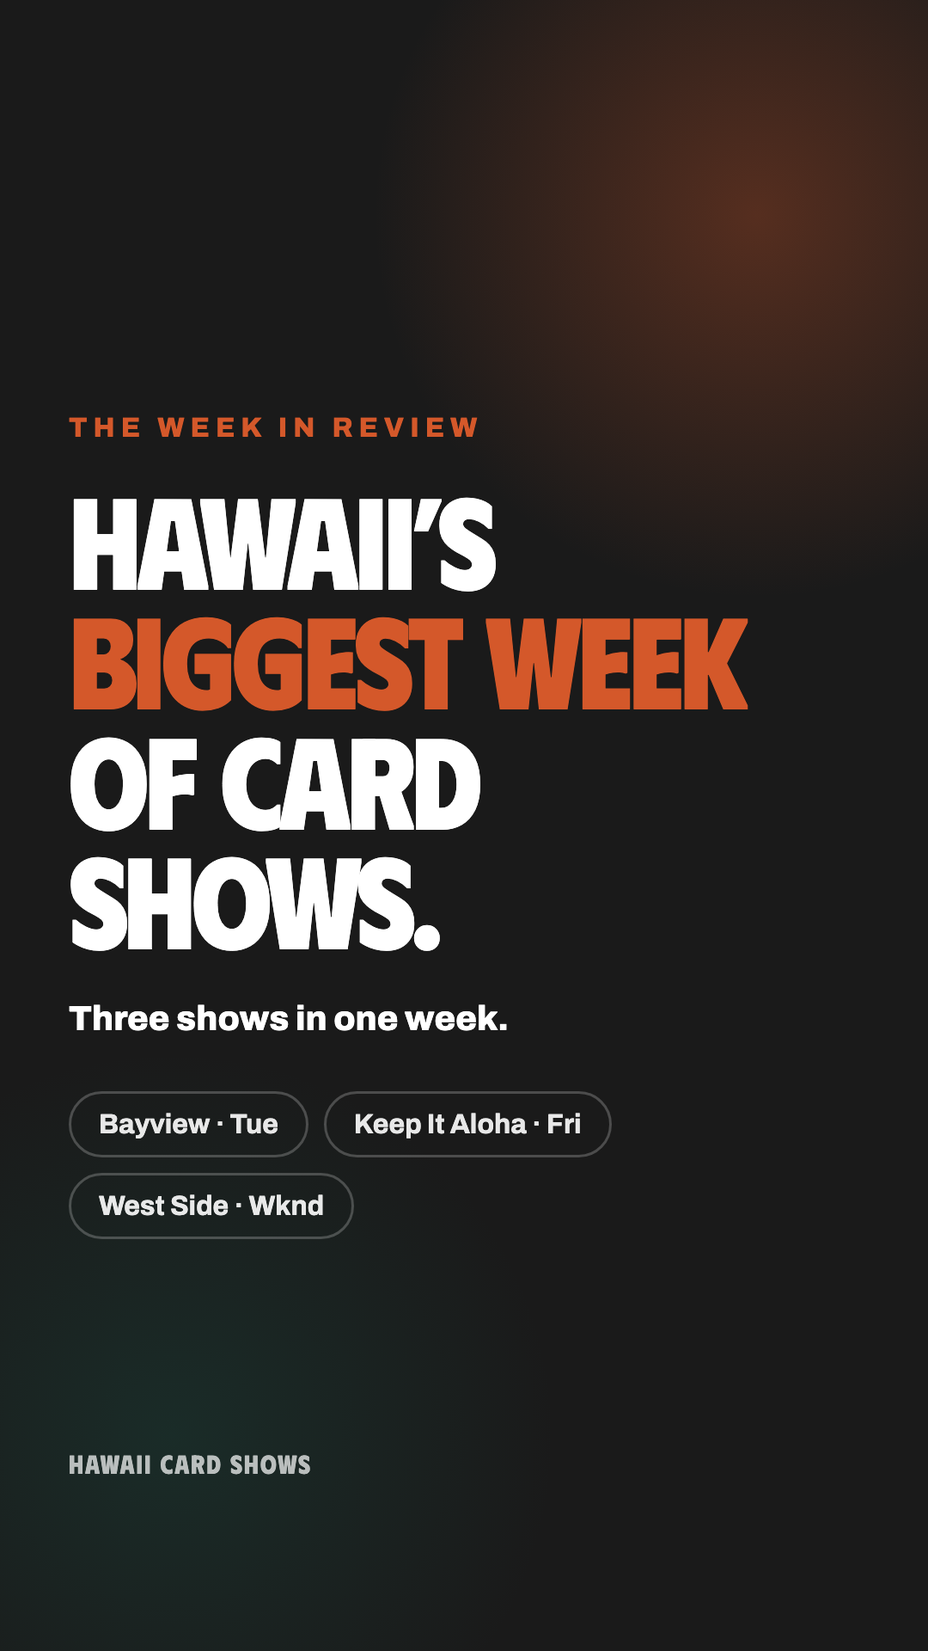
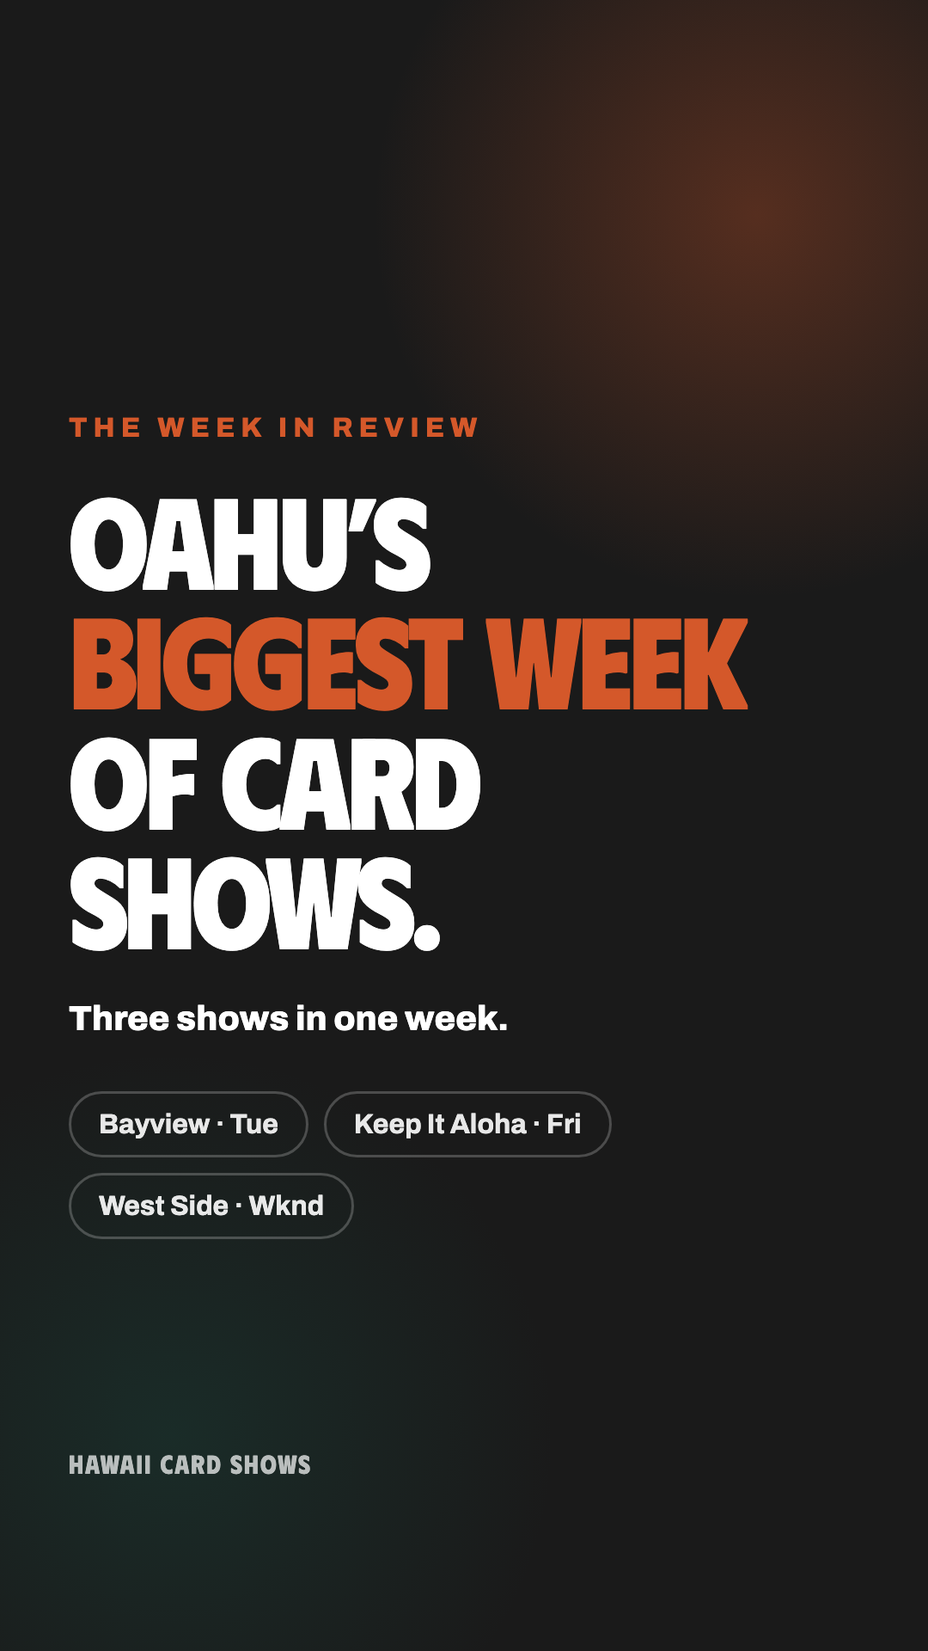
Publish KIA #2 recap + refresh "Oahu's Biggest Week" social + KIA newsletter
- PUBLISH KIA #2 recap: removed DRAFT comment + on-page review banner, flipped
  robots noindex→index,follow, registered in recap-map.js (newest) + sitemap.xml.
  Now public: homepage "Latest From Hawaii", recaps index, KIA show page, indexable.
- Added Tyler's voice ("a night out with friends… bring your casual friends to
  tumble down the rabbit hole") to the recap's Friday-format section + the newsletter note.
- KIA recap newsletter drafted: emails/blasts/blast-recap-keep-it-aloha-june-2026.html
  (1,500+ headline, hero, stats, sponsor love, big-week tease). Send Tue–Wed.
- Refreshed big-week carousel + stories: cover → "Oahu just had its biggest week",
  KIA slide now shows 70+ vendors / 1,500+ collectors. Caption updated (Oahu, numbers,
  West Side Card Show rename, live recap link). Re-rendered.

Changed region(s): [[0.0611, 0.2812, 0.55, 0.375]]

diff --git a/emails/blasts/blast-recap-keep-it-aloha-june-2026.html b/emails/blasts/blast-recap-keep-it-aloha-june-2026.html
@@ -1,0 +1,224 @@
+<!DOCTYPE html>
+<html lang="en" xmlns="http://www.w3.org/1999/xhtml" xmlns:v="urn:schemas-microsoft-com:vml" xmlns:o="urn:schemas-microsoft-com:office:office">
+<head>
+<meta charset="utf-8">
+<meta name="viewport" content="width=device-width, initial-scale=1.0">
+<meta http-equiv="X-UA-Compatible" content="IE=edge">
+<meta name="x-apple-disable-message-reformatting">
+<title>1,500+ collectors on a Friday night</title>
+<!--
+═══════════════════════════════════════════════════════════════════════
+  ⚠  DRAFT — KIA #2 RECAP NEWSLETTER
+  Campaign: recap-blast-keep-it-aloha-june-2026
+  Send Tue–Wed (NOT Monday — weekly digest auto-sends Mon 9 AM HST).
+  TO FILL: [[ HCS TEAM NOTE ]] (ask Tyler).
+  GATE: publish the KIA recap page (flip noindex→index + register) before/at send,
+        so the "Read the Full Recap" link points to a public page.
+═══════════════════════════════════════════════════════════════════════
+-->
+<!--[if mso]>
+<noscript><xml><o:OfficeDocumentSettings><o:AllowPNG/><o:PixelsPerInch>96</o:PixelsPerInch></o:OfficeDocumentSettings></xml></noscript>
+<![endif]-->
+<style>
+  @import url('https://fonts.googleapis.com/css2?family=Archivo:wght@400;500;600;700;800&family=Phudu:wght@400;500;600;700;800&display=swap');
+  * { margin: 0; padding: 0; }
+  body, table, td, a { -webkit-text-size-adjust: 100%; -ms-text-size-adjust: 100%; }
+  table, td { mso-table-lspace: 0pt; mso-table-rspace: 0pt; }
+  img { -ms-interpolation-mode: bicubic; border: 0; height: auto; line-height: 100%; outline: none; text-decoration: none; }
+  body { height: 100% !important; margin: 0 !important; padding: 0 !important; width: 100% !important; background-color: #f5f0e8; }
+  @media screen and (max-width: 600px) {
+    .mobile-padding { padding-left: 20px !important; padding-right: 20px !important; }
+    .mobile-full { width: 100% !important; }
+  }
+</style>
+</head>
+<body style="margin:0; padding:0; background-color:#f5f0e8; font-family:'Archivo', Arial, Helvetica, sans-serif;">
+
+<!-- Preview text -->
+<div style="display:none; max-height:0; overflow:hidden; mso-hide:all;">
+  70+ vendors, 1,500+ collectors, free for everyone — on a single Friday night at SALT.
+</div>
+
+<table role="presentation" cellpadding="0" cellspacing="0" border="0" width="100%" style="background-color:#f5f0e8;">
+<tr><td align="center" style="padding:24px 16px;">
+
+<table role="presentation" cellpadding="0" cellspacing="0" border="0" width="600" class="mobile-full" style="max-width:600px; width:100%; background-color:#ffffff; border-radius:12px; overflow:hidden; box-shadow:0 2px 12px rgba(0,0,0,0.08);">
+
+<!-- ═══ HEADER ═══ -->
+<tr>
+<td align="center" style="background-color:#1a6b5a; padding:32px 28px 28px 28px;" class="mobile-padding">
+  <a href="https://hawaiicardshows.com?utm_source=newsletter&utm_medium=email&utm_campaign=recap-blast-keep-it-aloha-june-2026&utm_content=header-logo" target="_blank" style="text-decoration:none;">
+    <img src="https://hawaiicardshows.com/branding/logo-horizontal-white.png" width="200" alt="Hawaii Card Shows" style="display:block; width:200px; max-width:200px; height:auto; border:0; margin:0 auto;">
+  </a>
+  <div style="font-family:'Phudu',Arial,Helvetica,sans-serif; font-size:11px; color:rgba(255,255,255,0.75); margin-top:12px; letter-spacing:1.5px; text-transform:uppercase; font-weight:600;">
+    Recap &middot; June 5, 2026
+  </div>
+</td>
+</tr>
+
+<!-- ═══ HERO PHOTO ═══ -->
+<tr>
+<td style="padding:0; line-height:0; font-size:0;">
+  <a href="https://hawaiicardshows.com/recaps/keep-it-aloha-june-2026?utm_source=newsletter&utm_medium=email&utm_campaign=recap-blast-keep-it-aloha-june-2026&utm_content=hero-photo" target="_blank" style="text-decoration:none;">
+    <img src="https://hawaiicardshows.com/recaps/images/keep-it-aloha-june-2026-show-floor.jpg" width="600" alt="Packed floor at Keep It Aloha #2 — collectors and families under the SALT Kaka'ako warehouse roof" style="display:block; width:100%; max-width:600px; height:auto; border:0;">
+  </a>
+</td>
+</tr>
+
+<!-- ═══ HEADLINE ═══ -->
+<tr>
+<td style="padding:36px 28px 16px 28px;" class="mobile-padding">
+  <h1 style="font-family:'Phudu',Arial,Helvetica,sans-serif; font-size:30px; font-weight:800; color:#1a1a1a; margin:0 0 12px 0; line-height:1.2; letter-spacing:-0.5px;">
+    1,500+ collectors. One Friday night.
+  </h1>
+  <p style="font-family:'Archivo',Arial,Helvetica,sans-serif; font-size:15px; color:#6a6a6a; line-height:1.7; margin:0;">
+    June 5, 2026 &middot; SALT in Kaka&rsquo;ako, Honolulu
+  </p>
+</td>
+</tr>
+
+<!-- ═══ STATS — 2x2 grid ═══ -->
+<tr>
+<td style="padding:24px 28px 8px 28px;" class="mobile-padding">
+  <table role="presentation" cellpadding="0" cellspacing="0" border="0" width="100%" style="background:#f5f0e8; border-radius:10px;">
+    <tr>
+      <td width="50%" align="center" valign="middle" style="padding:20px 12px; border-right:1px solid #e8e0d0; border-bottom:1px solid #e8e0d0;">
+        <div style="font-family:'Phudu',Arial,Helvetica,sans-serif; font-weight:800; font-size:30px; color:#1a6b5a; line-height:1;">70+</div>
+        <div style="font-family:'Archivo',Arial,Helvetica,sans-serif; font-size:11px; font-weight:700; color:#6a6a6a; text-transform:uppercase; letter-spacing:0.8px; margin-top:6px;">Vendors</div>
+      </td>
+      <td width="50%" align="center" valign="middle" style="padding:20px 12px; border-bottom:1px solid #e8e0d0;">
+        <div style="font-family:'Phudu',Arial,Helvetica,sans-serif; font-weight:800; font-size:30px; color:#1a6b5a; line-height:1;">1,500+</div>
+        <div style="font-family:'Archivo',Arial,Helvetica,sans-serif; font-size:11px; font-weight:700; color:#6a6a6a; text-transform:uppercase; letter-spacing:0.8px; margin-top:6px;">Attendees</div>
+      </td>
+    </tr>
+    <tr>
+      <td width="50%" align="center" valign="middle" style="padding:20px 12px; border-right:1px solid #e8e0d0;">
+        <div style="font-family:'Phudu',Arial,Helvetica,sans-serif; font-weight:800; font-size:30px; color:#1a6b5a; line-height:1;">Fri</div>
+        <div style="font-family:'Archivo',Arial,Helvetica,sans-serif; font-size:11px; font-weight:700; color:#6a6a6a; text-transform:uppercase; letter-spacing:0.8px; margin-top:6px;">Pau Hana Night</div>
+      </td>
+      <td width="50%" align="center" valign="middle" style="padding:20px 12px;">
+        <div style="font-family:'Phudu',Arial,Helvetica,sans-serif; font-weight:800; font-size:30px; color:#d4582a; line-height:1;">FREE</div>
+        <div style="font-family:'Archivo',Arial,Helvetica,sans-serif; font-size:11px; font-weight:700; color:#6a6a6a; text-transform:uppercase; letter-spacing:0.8px; margin-top:6px;">For Everyone</div>
+      </td>
+    </tr>
+  </table>
+</td>
+</tr>
+
+<!-- ═══ HCS TEAM NOTE ═══ -->
+<tr>
+<td style="padding:24px 12px 8px 12px;">
+  <table role="presentation" width="100%" cellpadding="0" cellspacing="0" border="0" style="background:#fff8f0; border-left:4px solid #d4582a; border-radius:0 8px 8px 0;">
+    <tr><td style="padding:18px 18px;">
+      <div style="font-family:'Archivo',Arial,Helvetica,sans-serif; font-size:11px; font-weight:700; color:#d4582a; text-transform:uppercase; letter-spacing:1.2px; margin-bottom:8px;">
+        Note from the HCS Team
+      </div>
+      <p style="font-family:'Archivo',Arial,Helvetica,sans-serif; font-size:15px; color:#2c2c2c; line-height:1.7; margin:0; font-style:italic;">
+        What made this one click was the balance &mdash; it felt like a night out with friends. You could browse the tables, slip out for ice cream or dinner, then come back to rip a few packs or flip for that one card you&rsquo;ve been chasing. It&rsquo;s the perfect place for a serious collector to bring their casual friends along and let them tumble down the rabbit hole with the rest of us.
+      </p>
+    </td></tr>
+  </table>
+</td>
+</tr>
+
+<!-- ═══ HOOK + CTA ═══ -->
+<tr>
+<td style="padding:24px 28px 8px 28px;" class="mobile-padding">
+  <p style="font-family:'Archivo',Arial,Helvetica,sans-serif; font-size:15px; color:#444444; line-height:1.7; margin:0 0 12px 0;">
+    The festival came back for a Friday night &mdash; still free for the public, all ages. A gold Charizard hit the floor at <a href="https://www.instagram.com/skat_tcg" style="color:#1a6b5a; text-decoration:none; font-weight:600;">@skat_tcg</a>, live music from <a href="https://www.instagram.com/kaponowmusic" style="color:#1a6b5a; text-decoration:none; font-weight:600;">@kaponowmusic</a> kept the night going, and collectors were still rolling through well past 8 PM. Free for everyone again, thanks to <a href="https://www.instagram.com/getcollectr" style="color:#1a6b5a; text-decoration:none; font-weight:600;">@getcollectr</a>.
+  </p>
+  <p style="font-family:'Archivo',Arial,Helvetica,sans-serif; font-size:15px; color:#444444; line-height:1.7; margin:0 0 24px 0;">
+    The full recap has the pulls, the sponsors who made it free, the photos, and the next date already on the books.
+  </p>
+  <table role="presentation" cellpadding="0" cellspacing="0" border="0" style="display:inline-table;">
+  <tr>
+    <td align="center" style="background-color:#d4582a; border-radius:8px; mso-padding-alt:14px 32px;">
+      <a href="https://hawaiicardshows.com/recaps/keep-it-aloha-june-2026?utm_source=newsletter&utm_medium=email&utm_campaign=recap-blast-keep-it-aloha-june-2026&utm_content=primary-cta" style="display:inline-block; padding:14px 32px; font-family:'Archivo',Arial,Helvetica,sans-serif; font-size:14px; font-weight:700; color:#ffffff; text-decoration:none; border-radius:8px; letter-spacing:0.3px;">
+        Read the Full Recap &rarr;
+      </a>
+    </td>
+  </tr>
+  </table>
+</td>
+</tr>
+
+<!-- ═══ DIVIDER ═══ -->
+<tr><td style="padding:32px 28px 0 28px;" class="mobile-padding"><table role="presentation" cellpadding="0" cellspacing="0" border="0" width="100%"><tr><td style="border-top:1px solid #e8e0d0; font-size:1px; line-height:1px;">&nbsp;</td></tr></table></td></tr>
+
+<!-- ═══ BIG WEEK TEASE ═══ -->
+<tr>
+<td style="padding:28px 28px 4px 28px;" class="mobile-padding">
+  <div style="font-family:'Archivo',Arial,Helvetica,sans-serif; font-size:11px; font-weight:700; color:#d4582a; text-transform:uppercase; letter-spacing:1.5px; margin-bottom:8px;">
+    And That Was Just the Start
+  </div>
+  <p style="font-family:'Archivo',Arial,Helvetica,sans-serif; font-size:15px; color:#444444; line-height:1.7; margin:0;">
+    Keep It Aloha kicked off one of the biggest weeks Oahu card shows have ever had &mdash; capped by <strong>Max Holloway making his vendor debut</strong> at West Side Card Show III. That recap is coming soon. 👀
+  </p>
+</td>
+</tr>
+
+<!-- ═══ COMING UP ═══ -->
+<tr>
+<td style="padding:28px 28px 4px 28px;" class="mobile-padding">
+  <div style="font-family:'Archivo',Arial,Helvetica,sans-serif; font-size:11px; font-weight:700; color:#1a6b5a; text-transform:uppercase; letter-spacing:1.5px; margin-bottom:14px;">
+    Coming Up
+  </div>
+</td>
+</tr>
+<tr>
+<td style="padding:0 28px 8px 28px;" class="mobile-padding">
+
+  <table role="presentation" width="100%" cellpadding="0" cellspacing="0" border="0" style="margin:0 0 12px 0; border:1px solid #e8e0d0; border-left:4px solid #1a6b5a; border-radius:8px; background:#ffffff;">
+  <tr><td style="padding:16px 18px;">
+    <div style="font-family:'Archivo',Arial,Helvetica,sans-serif; font-size:11px; font-weight:800; color:#1a6b5a; text-transform:uppercase; letter-spacing:1.2px; margin-bottom:4px;">Oahu &middot; July 4–5</div>
+    <a href="https://hawaiicardshows.com/shows/keep-it-aloha?utm_source=newsletter&utm_medium=email&utm_campaign=recap-blast-keep-it-aloha-june-2026&utm_content=upcoming-kia" style="text-decoration:none;">
+      <h3 style="font-family:'Phudu',Arial,Helvetica,sans-serif; font-size:17px; font-weight:700; color:#1a1a1a; margin:0 0 4px 0; line-height:1.35;">Keep It Aloha — Independence Weekend</h3>
+    </a>
+    <p style="font-family:'Archivo',Arial,Helvetica,sans-serif; font-size:13px; color:#6a6a6a; line-height:1.5; margin:0;">SALT at Our Kaka&rsquo;ako &middot; two-day return</p>
+  </td></tr>
+  </table>
+
+  <table role="presentation" width="100%" cellpadding="0" cellspacing="0" border="0" style="margin:0 0 0 0; border:1px solid #e8e0d0; border-left:4px solid #d4582a; border-radius:8px; background:#ffffff;">
+  <tr><td style="padding:16px 18px;">
+    <div style="font-family:'Archivo',Arial,Helvetica,sans-serif; font-size:11px; font-weight:800; color:#d4582a; text-transform:uppercase; letter-spacing:1.2px; margin-bottom:4px;">Oahu &middot; August 9</div>
+    <a href="https://hawaiicardshows.com/shows/show.html?id=d73b2d5a-5fcc-45b8-b288-96883796d53a&utm_source=newsletter&utm_medium=email&utm_campaign=recap-blast-keep-it-aloha-june-2026&utm_content=upcoming-getnutz" style="text-decoration:none;">
+      <h3 style="font-family:'Phudu',Arial,Helvetica,sans-serif; font-size:17px; font-weight:700; color:#1a1a1a; margin:0 0 4px 0; line-height:1.35;">Get Nutz In Paradise</h3>
+    </a>
+    <p style="font-family:'Archivo',Arial,Helvetica,sans-serif; font-size:13px; color:#6a6a6a; line-height:1.5; margin:0;">Kroc Center Hawaii, Ewa Beach</p>
+  </td></tr>
+  </table>
+
+  <p style="font-family:'Archivo',Arial,Helvetica,sans-serif; font-size:13px; color:#6a6a6a; line-height:1.6; margin:20px 0 0 0; text-align:center;">
+    <a href="https://hawaiicardshows.com/?utm_source=newsletter&utm_medium=email&utm_campaign=recap-blast-keep-it-aloha-june-2026&utm_content=full-calendar" style="color:#1a6b5a; text-decoration:none; font-weight:700;">See the full calendar &rarr;</a>
+  </p>
+</td>
+</tr>
+
+<!-- ═══ FOOTER ═══ -->
+<tr>
+<td style="background-color:#1a1a1a; padding:32px 28px; border-radius:0 0 12px 12px;" class="mobile-padding">
+  <table role="presentation" cellpadding="0" cellspacing="0" border="0" width="100%">
+  <tr>
+    <td align="center">
+      <div style="font-family:'Phudu',Arial,Helvetica,sans-serif; font-size:14px; font-weight:700; color:#ffffff; margin-bottom:6px; letter-spacing:0.5px;">Hawaii Card Shows</div>
+      <div style="font-family:'Archivo',Arial,Helvetica,sans-serif; font-size:12px; color:rgba(255,255,255,0.5); line-height:1.6;">Built by collectors, for collectors.</div>
+      <div style="font-family:'Archivo',Arial,Helvetica,sans-serif; font-size:12px; line-height:1.6; margin-top:10px;">
+        <a href="https://www.instagram.com/hawaiicardshows" style="color:#e8f4f0; text-decoration:none; font-weight:600;">@hawaiicardshows</a>
+      </div>
+      <div style="font-family:'Archivo',Arial,Helvetica,sans-serif; font-size:11px; color:rgba(255,255,255,0.3); margin-top:16px; line-height:1.6;">
+        You&rsquo;re receiving this because you subscribed at hawaiicardshows.com.<br>
+        <a href="{{ unsubscribe_url }}" style="color:rgba(255,255,255,0.4); text-decoration:underline;">Unsubscribe</a>
+      </div>
+    </td>
+  </tr>
+  </table>
+</td>
+</tr>
+
+</table>
+
+</td></tr>
+</table>
+
+</body>
+</html>

diff --git a/recaps/keep-it-aloha-june-2026.html b/recaps/keep-it-aloha-june-2026.html
@@ -1,23 +1,6 @@
 <!DOCTYPE html>
 <html lang="en">
 <head>
-<!--
-═══════════════════════════════════════════════════════════════════════
-  ⚠  DRAFT — FILL BEFORE PUBLISHING  (then delete this banner)
-═══════════════════════════════════════════════════════════════════════
-  Keep It Aloha #2 — the Friday-night follow-up to the May festival debut.
-  Free for the public, all ages. Hosted by Kamaka Dias.
-
-  ✅ CONTENT-COMPLETE (2026-06-09) — awaiting Kamaka's sign-off, then publish.
-  IN: 70+ vendors / 1,500+ attendees (a single Friday night vs May's 5,000 over two days — strong),
-      8 photos (hero = show-floor + 7 gallery), full sponsor mahalo from Kamaka's caption (@getcollectr /
-      @alohacardshop / @merchlabs / @7elevenhi / @kaponowmusic / @saltourkakaako), pulls (gold Charizard
-      @skat_tcg, manga Koby OP-15 @toylynx), birds story, Kamaka reel, kākou mahalo, July 4–5 next.
-  OPTIONAL: a direct quote from Kamaka.
-  TO PUBLISH: flip robots→"index, follow"; register in recap-map.js + sitemap.xml; remove this banner +
-      the on-page "Draft for review" banner.
-═══════════════════════════════════════════════════════════════════════
--->
 <meta charset="UTF-8">
 <meta name="viewport" content="width=device-width, initial-scale=1.0">
 <link rel="icon" type="image/svg+xml" href="/favicon.svg">
@@ -35,7 +18,7 @@
   gtag('config', 'G-48ZSPW63VV');
 </script>
 
-<meta name="robots" content="noindex, nofollow"><!-- HIDDEN: draft for organizer review. Flip to "index, follow" + register in recap-map.js/sitemap.xml to publish. -->
+<meta name="robots" content="index, follow">
 <meta name="description" content="Recap of the second Keep It Aloha Card Show at SALT at Kaka'ako on Friday, June 5, 2026 — the Friday-night follow-up to May's festival debut. Free for the public, all ages, hosted by Kamaka Dias.">
 <meta name="keywords" content="Keep It Aloha card show, Keep It Aloha #2, SALT Kakaako card show, Hawaii card show recap, Kamaka Dias, free card show Honolulu, Pokemon card show Oahu June 2026">
 <link rel="canonical" href="https://hawaiicardshows.com/recaps/keep-it-aloha-june-2026.html">
@@ -131,9 +114,6 @@
 </div>
 
 <div class="recap-hero">
-  <div style="background:#fff4ed;border:1px solid #f0714a;border-radius:10px;padding:12px 16px;margin-bottom:22px;font-family:'Archivo',sans-serif;font-size:13px;line-height:1.5;color:#b04621;font-weight:600;">
-    🔍 <strong>Draft for review</strong> — not public yet, just sharing with the crew before we publish. Spot anything off, or want a tweak? Your feedback is welcome — mahalo!
-  </div>
   <div class="recap-tag">Show Recap</div>
   <h1>Keep It Aloha Comes Back for a Friday Night</h1>
   <div class="recap-meta">
@@ -180,6 +160,8 @@
   <h2>Why the Friday Format Works</h2>
 
   <p>A Friday-night show fills a gap the calendar didn&rsquo;t have. Weekend shows compete with everything else families do on a Saturday; a Friday-evening show at SALT &mdash; already one of the most walkable, social spots in Kaka&rsquo;ako &mdash; turns a card show into a place to start the weekend. People come off work, grab food, dig through binders, and hang out. That&rsquo;s the kind of regular rhythm that builds a scene, not just an event.</p>
+
+  <p>More than anything, it felt like a night out with friends. You could browse the tables, slip out for ice cream or dinner, then come back to rip a few packs or flip for that one card you&rsquo;ve been chasing. It&rsquo;s the perfect place for a serious collector to bring their casual friends along &mdash; and let them tumble down the rabbit hole with the rest of us.</p>
 
   <p>Two shows in, Keep It Aloha is doing exactly what Kamaka set out to do: build a recurring, community-first show that doesn&rsquo;t price anyone out. The May debut proved the ceiling &mdash; <strong>70+ vendors and 5,000+ people across a two-day weekend</strong>. June proved it wasn&rsquo;t a fluke: <strong>70+ vendors again and 1,500+ collectors</strong> through the door &mdash; all in a single Friday evening. For one weeknight, that&rsquo;s a serious number, and a sign the format has real legs.</p>
 

diff --git a/recaps/social/2026-06-09-big-week-carousel/src/03-keep-it-aloha.html b/recaps/social/2026-06-09-big-week-carousel/src/03-keep-it-aloha.html
@@ -46,7 +46,7 @@
     <div class="tag">The Build · Show 2 of 3</div>
     <div class="eyebrow">Fri · June 5 · SALT Kaka&rsquo;ako</div>
     <h1>Keep It Aloha<br><em>#2</em></h1>
-    <p class="lead">By Friday the week was rolling. The festival came back to SALT &mdash; same <strong>free-for-the-public</strong> door, all ages, this time as a pau-hana Friday night.</p>
+    <p class="lead">By Friday the week was rolling. <strong>70+ vendors, 1,500+ collectors</strong> &mdash; free for everyone, all on a single pau-hana Friday night.</p>
     <div class="details">
       <div class="details-row"><div class="details-icon">📍</div>SALT at Our Kaka&rsquo;ako</div>
       <div class="details-row"><div class="details-icon">🎟</div>Free for the public · all ages</div>

diff --git a/recaps/social/2026-06-09-big-week-stories/src/03-keep-it-aloha.html b/recaps/social/2026-06-09-big-week-stories/src/03-keep-it-aloha.html
@@ -32,7 +32,7 @@
   <div class="inner">
     <div class="eyebrow">Fri · June 5 · SALT Kaka&rsquo;ako</div>
     <h1>Keep It<br>Aloha <em>#2</em></h1>
-    <p class="lead">The festival came back for a Friday night &mdash; still <strong>free for the public</strong>, all ages.</p>
+    <p class="lead">The festival came back for a Friday night &mdash; <strong>70+ vendors, 1,500+ collectors</strong>, free for all.</p>
     <div class="details">
       <div class="details-row"><div class="details-icon">📍</div>SALT at Our Kaka&rsquo;ako</div>
       <div class="details-row"><div class="details-icon">🎟</div>Free for the public · all ages</div>

diff --git a/recaps/recap-map.js b/recaps/recap-map.js
@@ -17,6 +17,15 @@
 (function () {
   const RECAPS = [
     {
+      slug: 'keep-it-aloha-june-2026',
+      title: 'Keep It Aloha #2 — 1,500+ on a Friday Night',
+      date: '2026-06-05',
+      event_id: '13961a95-543a-4930-8de2-98ecf08322f9',
+      thumbnail: '/recaps/images/keep-it-aloha-june-2026-show-floor.jpg',
+      url: '/recaps/keep-it-aloha-june-2026.html',
+      blurb: '70+ vendors and 1,500+ collectors — free for everyone, all on a single Friday night at SALT.'
+    },
+    {
       slug: 'keep-it-aloha-may-2026',
       title: 'Keep It Aloha #1 — Festival Energy at SALT Kaka’ako',
       date: '2026-05-02',

diff --git a/recaps/social/2026-06-09-big-week-carousel/src/01-cover.html b/recaps/social/2026-06-09-big-week-carousel/src/01-cover.html
@@ -92,7 +92,7 @@
   <div class="inner">
     <div>
       <div class="eyebrow">The Week in Review</div>
-      <h1>Hawaii just had its<br><em>biggest week</em><br>of card shows.</h1>
+      <h1>Oahu just had its<br><em>biggest week</em><br>of card shows.</h1>
       <p class="sub"><strong>Three shows in one week.</strong> It started Tuesday at Bayview&hellip; and ended with a UFC champ behind a vendor table.</p>
       <div class="pill-row">
         <div class="pill">Bayview · Tue</div>

diff --git a/recaps/social/2026-06-09-big-week-stories/src/01-cover.html b/recaps/social/2026-06-09-big-week-stories/src/01-cover.html
@@ -30,7 +30,7 @@
 <body>
   <div class="inner">
     <div class="eyebrow">The Week in Review</div>
-    <h1>Hawaii&rsquo;s<br><em>biggest week</em><br>of card<br>shows.</h1>
+    <h1>Oahu&rsquo;s<br><em>biggest week</em><br>of card<br>shows.</h1>
     <p class="sub"><strong>Three shows in one week.</strong></p>
     <div class="pill-row">
       <div class="pill">Bayview · Tue</div>
